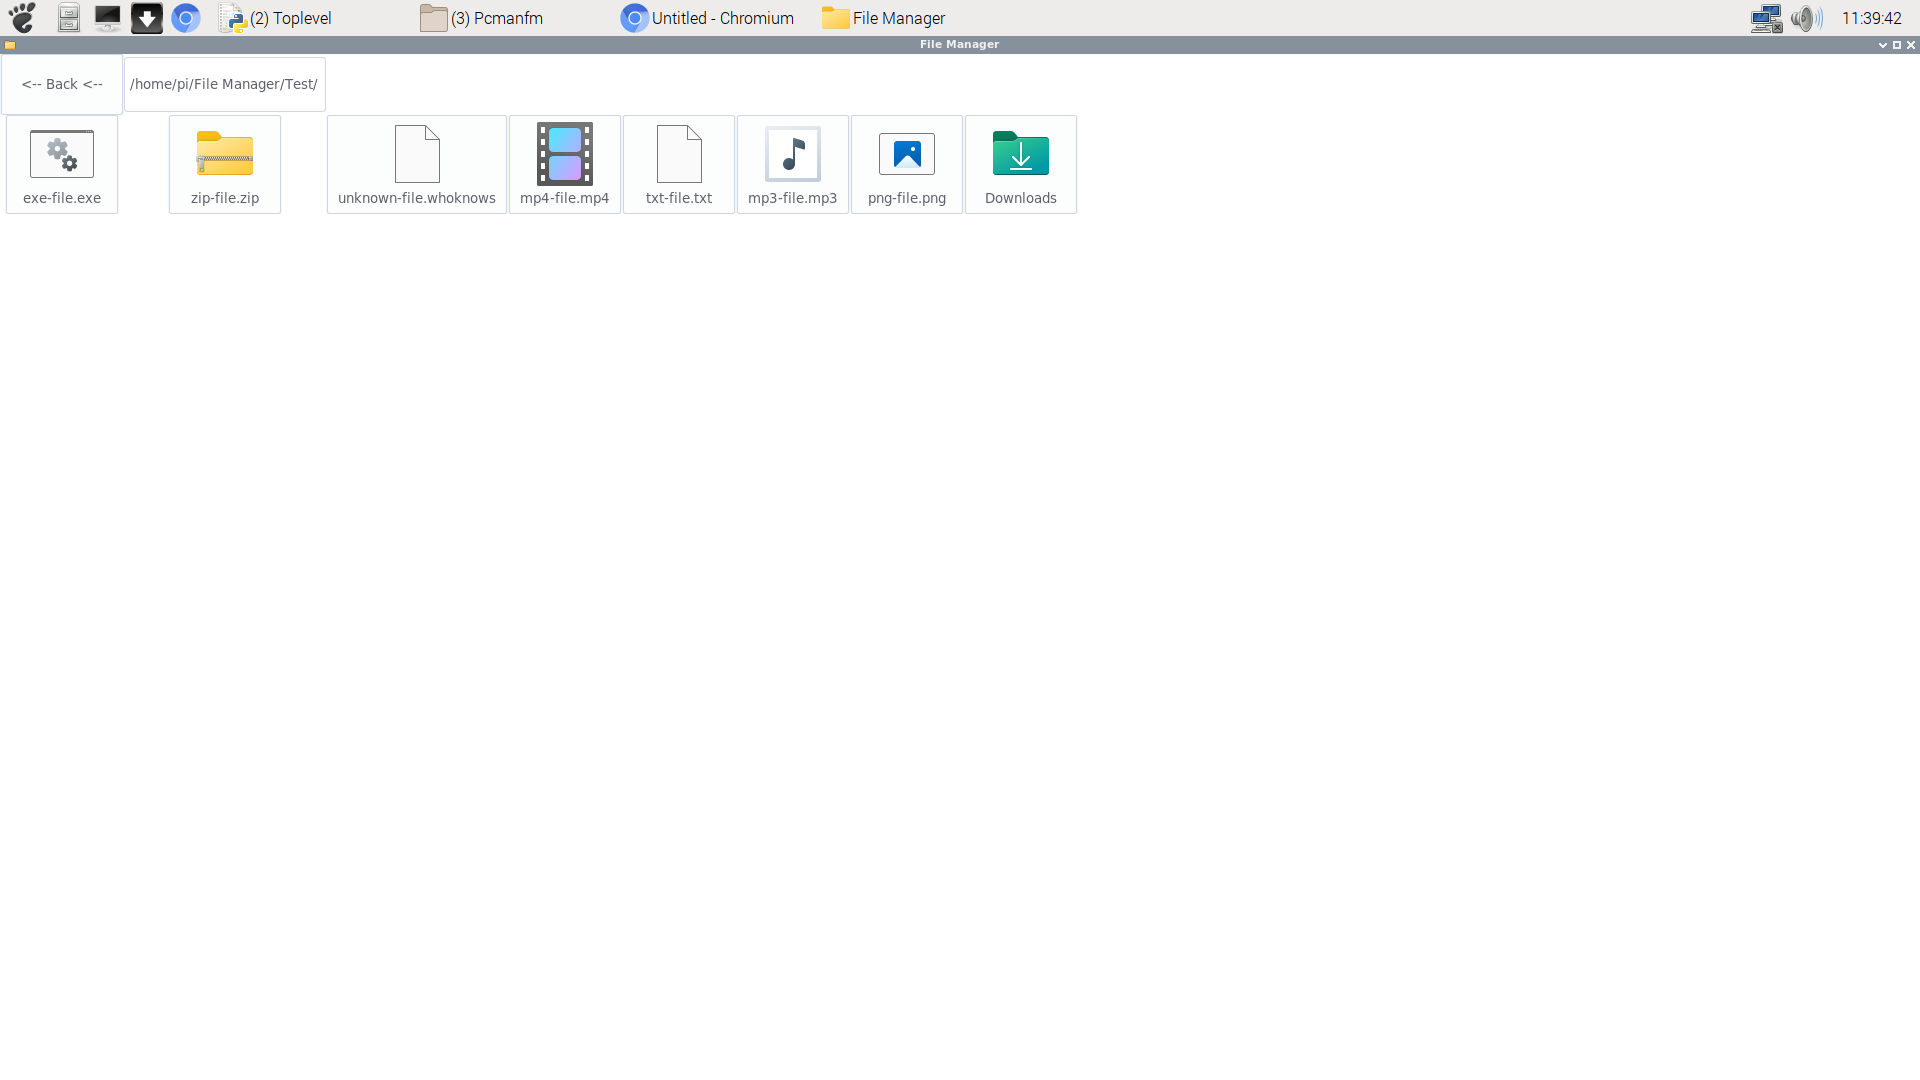
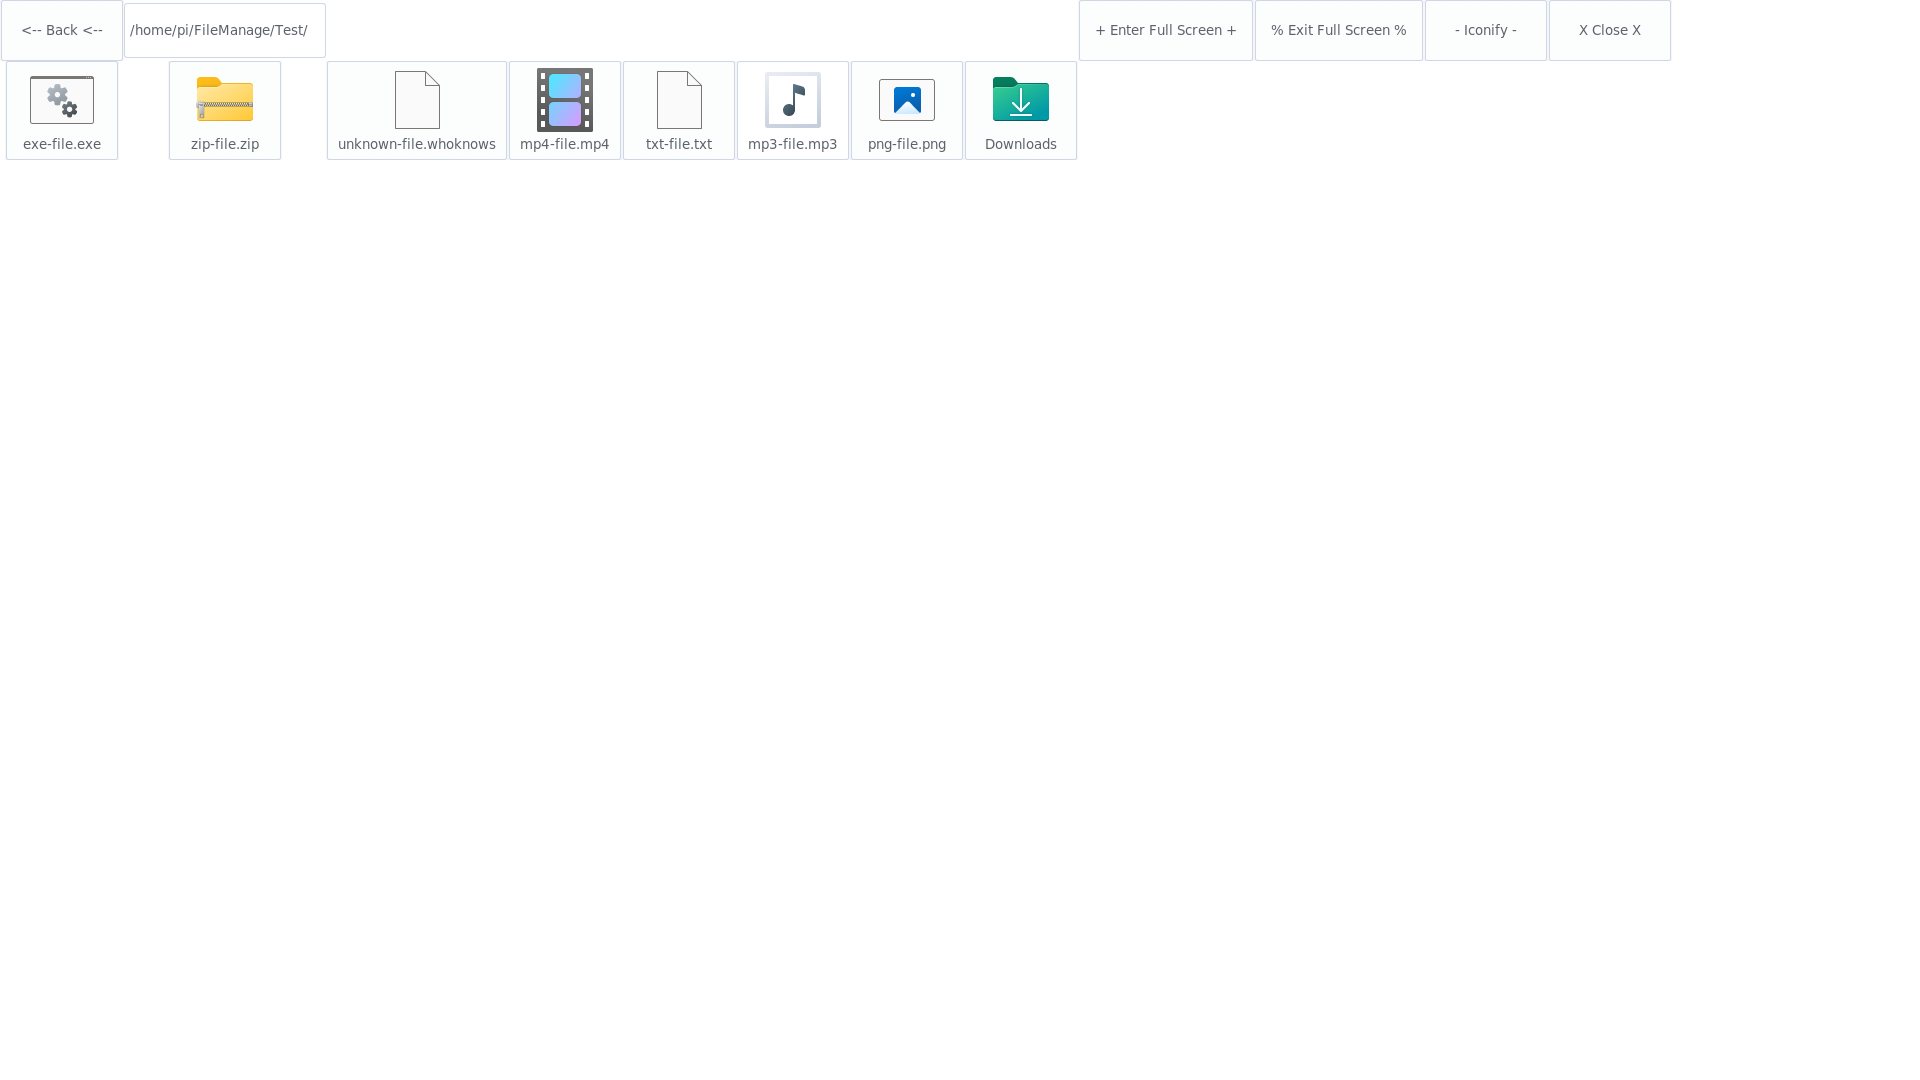
2.0 new stuff

Changed region(s): [[0.0, 0.0, 1.0, 0.2139], [0.1875, 0.1833, 0.25, 0.2139]]

diff --git a/main.py b/main.py
@@ -75,12 +75,17 @@ app.config(bg="white")
 app.call("source", os.getcwd() + "/arc/arc.tcl")
 app.iconphoto(False, PhotoImage(file=os.getcwd() + "/icons/Folder-0.png"))
 Style(app).theme_use("arc")
+app.attributes("-fullscreen", True)
 Button(app, text="<-- Back <--", command=goback).grid(row=0, column=0,ipadx=5, ipady=15)
 pathvar = StringVar()
 pathentry = Entry(app, textvariable=pathvar)
 pathentry.bind('<KeyRelease-Return>', goto)
 pathentry.grid(row=0, column=1, ipadx=5, ipady=15)
-path = os.getcwd() + "/"
+Button(app, text="X Close X", command=lambda:app.destroy()).grid(row=0, column=11,ipadx=5, ipady=15)
+Button(app, text="- Iconify -", command=lambda:app.iconify()).grid(row=0, column=10,ipadx=5, ipady=15)
+Button(app, text="% Exit Full Screen %", command=lambda:app.attributes("-fullscreen", False)).grid(row=0, column=9,ipadx=5, ipady=15)
+Button(app, text="+ Enter Full Screen +", command=lambda:app.attributes("-fullscreen", True)).grid(row=0, column=8,ipadx=5, ipady=15)
+path = os.getcwd().replace("/FileManage", "") + "/"
 def opendir():
     global files, pathvar
     pathvar.set(path)
@@ -92,7 +97,7 @@ def opendir():
     row = 1
     column = 0
     for file in os.listdir(path):
-        if column == 14:
+        if column == 12:
             column = 0
             row += 1
         File(row, column, path + file, file)
